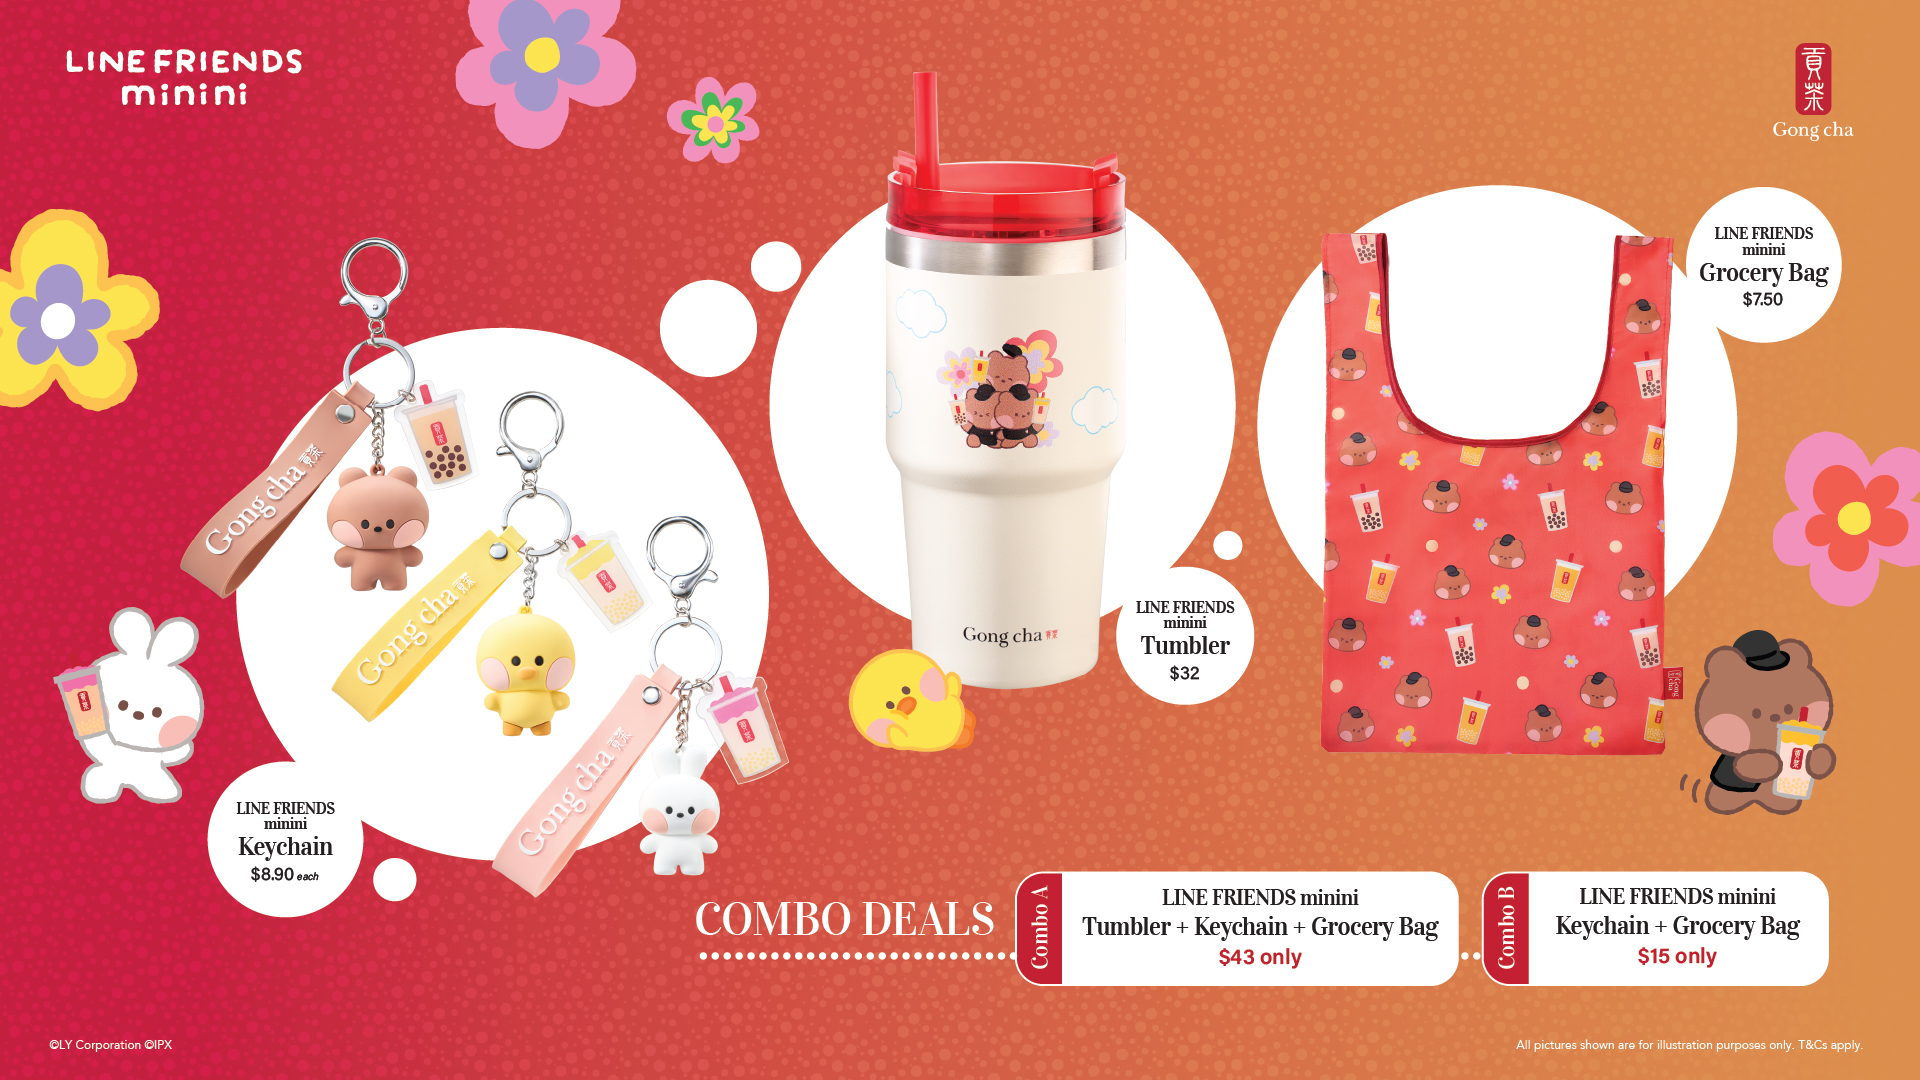
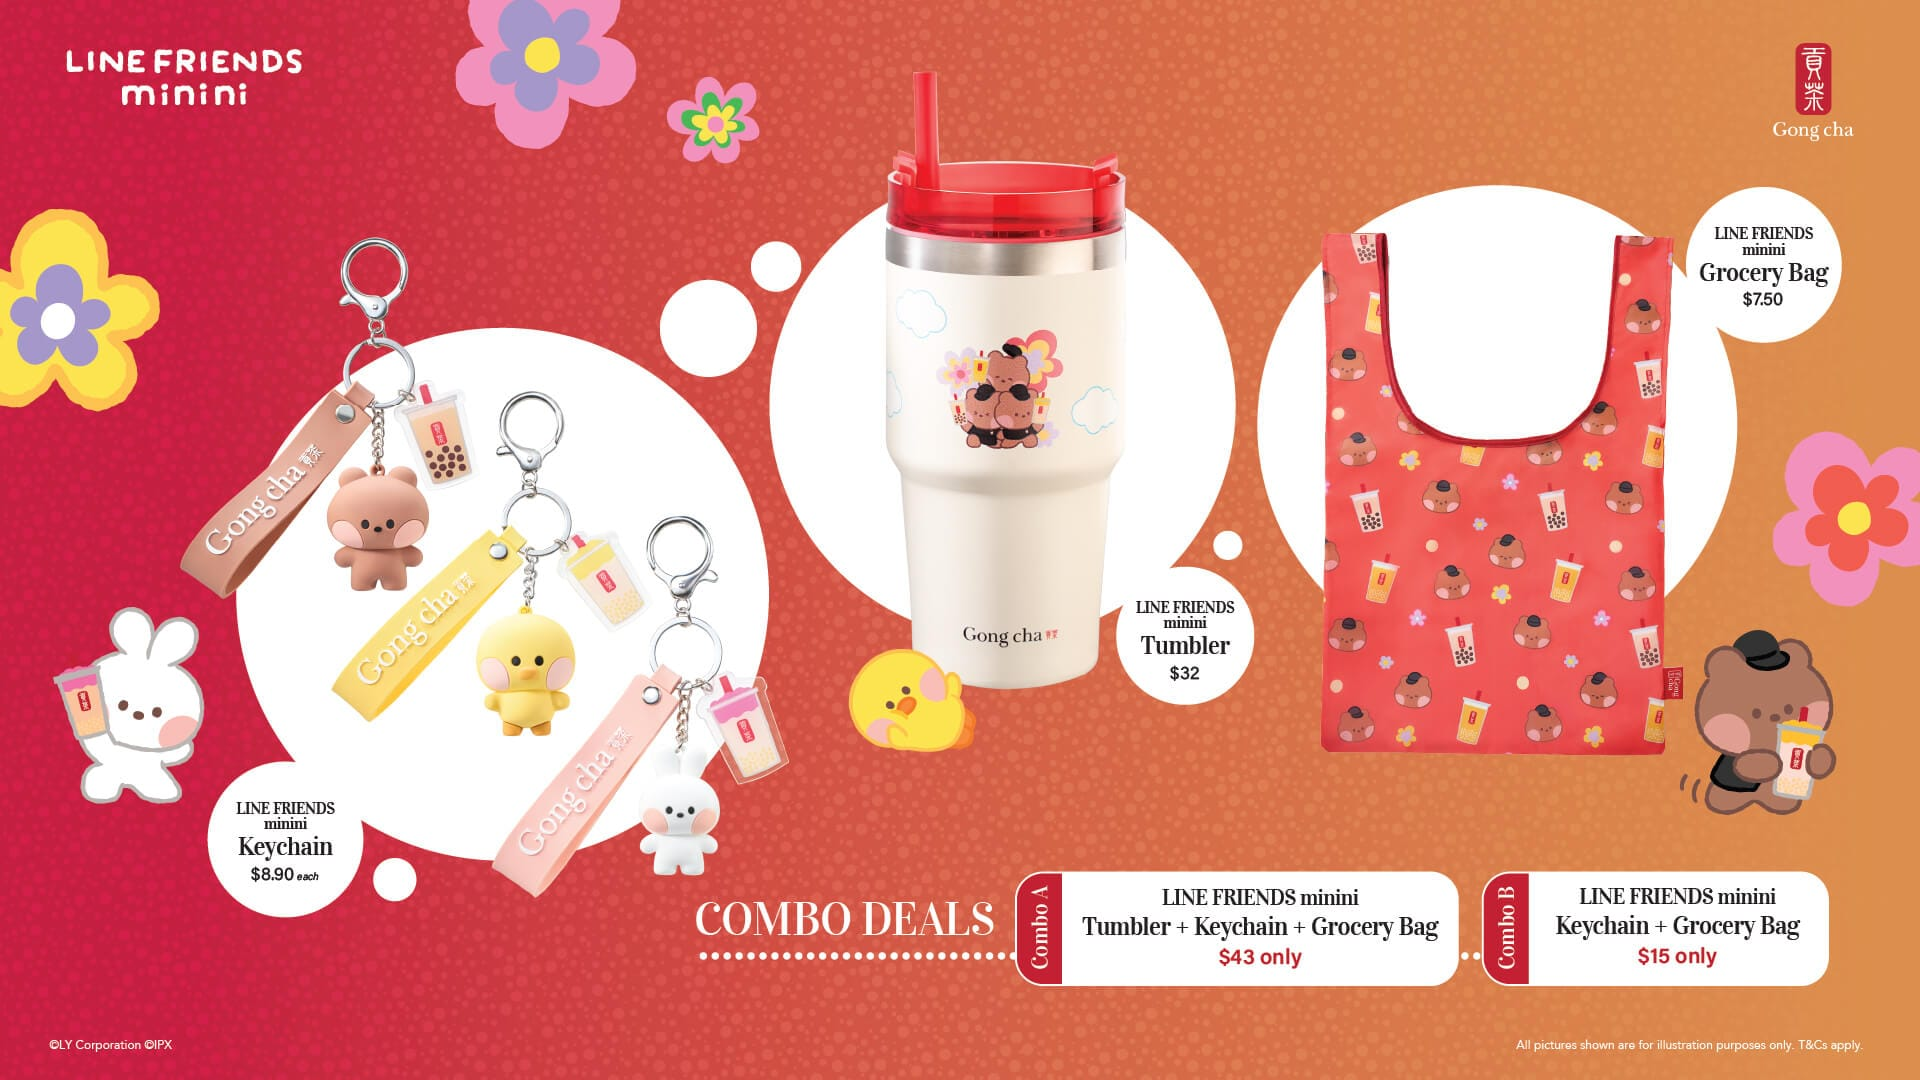
compress images

diff --git a/scripts/resize-images.js b/scripts/resize-images.js
@@ -1,0 +1,70 @@
+import sharp from 'sharp';
+import fs from 'fs';
+import path from 'path';
+import { fileURLToPath } from 'url';
+
+const __filename = fileURLToPath(import.meta.url);
+const __dirname = path.dirname(__filename);
+
+const ASSETS_DIR = path.resolve(__dirname, '../public/assets');
+const MAX_WIDTH = 1920;
+const MAX_HEIGHT = 1080;
+
+async function resizeImages() {
+    if (!fs.existsSync(ASSETS_DIR)) {
+        console.error(`Assets directory not found: ${ASSETS_DIR}`);
+        return;
+    }
+
+    const files = fs.readdirSync(ASSETS_DIR);
+    const imageFiles = files.filter(file => /\.(jpg|jpeg|png|webp)$/i.test(file));
+
+    console.log(`Found ${imageFiles.length} images in ${ASSETS_DIR}`);
+
+    for (const file of imageFiles) {
+        const filePath = path.join(ASSETS_DIR, file);
+        try {
+            const image = sharp(filePath);
+            const metadata = await image.metadata();
+
+            // Compression settings
+            if (metadata.format === 'jpeg' || metadata.format === 'jpg') {
+                image.jpeg({ quality: 80, mozjpeg: true });
+            } else if (metadata.format === 'png') {
+                image.png({ compressionLevel: 9, palette: true });
+            } else if (metadata.format === 'webp') {
+                image.webp({ quality: 80 });
+            }
+
+            // Create a temporary file
+            const tempPath = filePath + '.tmp';
+
+            // Always attempt resize + compress
+            await image
+                .resize({
+                    width: MAX_WIDTH,
+                    height: MAX_HEIGHT,
+                    fit: 'inside', // Maintain aspect ratio, do not crop
+                    withoutEnlargement: true
+                })
+                .toFile(tempPath);
+
+            const originalStats = fs.statSync(filePath);
+            const newStats = fs.statSync(tempPath);
+
+            // Replace only if smaller
+            if (newStats.size < originalStats.size) {
+                fs.renameSync(tempPath, filePath);
+                const saved = ((originalStats.size - newStats.size) / 1024).toFixed(2);
+                console.log(`✅ Optimized ${file}: Saved ${saved}KB`);
+            } else {
+                fs.unlinkSync(tempPath);
+                console.log(`Skipping ${file} (No improvement)`);
+            }
+        } catch (error) {
+            console.error(`❌ Failed to process ${file}:`, error);
+        }
+    }
+}
+
+resizeImages();
